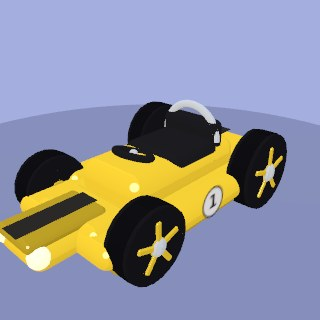
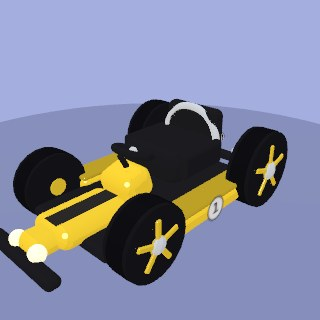
Restyle the kart bodies as real go-karts: low open chassis, bare seat, nose cone
The kart-family shell (GP / roadster / buggy / finned) was a slab-sided
toy car — wide moulded pan, raised spine, full-width nose. Rebuilt to
read like an actual go-kart, per reference:
- flat dark floor pan riding low, with exposed tube side-rails
- a bare bucket seat (tall back + side bolsters) instead of a body the
  seat sank into; seat/wheel positions unchanged so the cat still fits
  and the driving pose still reaches the rim
- a narrow tapering nose cone wearing the racing stripe, with a raked
  cowl and visible steering column up to the wheel
- wrap-around dark bumpers front and rear; small nose headlights;
  tail lights moved onto the rear bumper
- low accent-capped side pods carrying the number roundels
- an engine block + air intake behind the seat
Style variants keep their identity (nose length, big wing on a
floor-anchored pylon, ducktail on the bumper, lowered rocket fins, roll
hoop reaching the pan, tire sizes). The minivan keeps its chunky moulded
body; physics and footprint untouched. Catalog shots regenerated.

Claude-Session: https://claude.ai/code/session_017fyz1DfGtQ1NoLSq3UX5Bd

diff --git a/src/models.js b/src/models.js
@@ -1348,31 +1348,32 @@ export function createKartModel(bodyColor = 0xe53935, opts = {}) {
     }
     addRoundels(0.41, 1.08, 0.5, 0.5); // on the tank flanks
   } else {
-    // --- Kart / van moulded shell ---
-    // Floor pan: the wide, low monocoque the whole car is built on.
-    const pan = add(new THREE.Mesh(rbox(2.55, 0.42, 4.7, 0.3), paint));
-    pan.position.y = 0.56;
-    // Lower accent skirt (two-tone) — slightly wider + darker, hugging the ground.
-    const skirt = add(new THREE.Mesh(rbox(2.66, 0.3, 4.3, 0.22), accent));
-    skirt.position.y = 0.36;
-    // Cockpit spine: the raised centre body that the seat sinks into. (The van's
-    // cabin walls stand in for it — a spine inside the cabin reads as cargo.)
-    if (bodyKind !== "van") {
-      const spine = add(new THREE.Mesh(rbox(1.6, 0.78, 3.1, 0.34), paint));
-      spine.position.set(0, 0.92, -0.25);
-    }
-    // Nose: a single tapering wedge flowing off the front of the pan + soft tip.
-    // Length/reach vary by style (long GP snout vs stubby buggy vs van hood).
-    const nose = add(new THREE.Mesh(rbox(1.7, 0.46, st.nose, 0.3), paint));
-    nose.position.set(0, 0.62, st.noseZ);
-    const noseTip = add(new THREE.Mesh(rbox(1.16, 0.42, 1.2, 0.42), paint));
-    noseTip.position.set(0, 0.58, st.tipZ);
-    // Nose flash (accent) over the snout.
-    const flash = add(new THREE.Mesh(rbox(0.95, 0.2, 1.5, 0.12), accent));
-    flash.position.set(0, 0.84, st.noseZ + 0.6);
+    // Steering wheel + chrome hub — shared by van and karts (same spot the
+    // cat's driving pose reaches for).
+    const wheel = add(new THREE.Mesh(new THREE.TorusGeometry(0.35, 0.07, 10, 18), dark));
+    wheel.position.set(0, 1.4, 0.55);
+    wheel.rotation.x = Math.PI / 2.6;
+    const wheelHub = add(new THREE.Mesh(new THREE.CylinderGeometry(0.09, 0.09, 0.05, 12), chrome));
+    wheelHub.position.set(0, 1.4, 0.55);
+    wheelHub.rotation.x = Math.PI / 2.6;
+    // Seat where the cat sits — same height in every body so the cat always fits.
+    const seat = add(new THREE.Mesh(rbox(1.5, 0.66, 1.5, 0.28), dark));
+    seat.position.set(0, 1.06, -0.5);
+
     if (bodyKind === "van") {
-      // Open-top minivan: tall slab sides + a tailgate, with the roof cut away
-      // so the cat rides head-out. Roundels sit on the sliding doors.
+      // --- Open-top minivan: the chunky moulded body ---
+      const pan = add(new THREE.Mesh(rbox(2.55, 0.42, 4.7, 0.3), paint));
+      pan.position.y = 0.56;
+      const skirt = add(new THREE.Mesh(rbox(2.66, 0.3, 4.3, 0.22), accent));
+      skirt.position.y = 0.36;
+      // Hood + soft tip.
+      const nose = add(new THREE.Mesh(rbox(1.7, 0.46, st.nose, 0.3), paint));
+      nose.position.set(0, 0.62, st.noseZ);
+      const noseTip = add(new THREE.Mesh(rbox(1.16, 0.42, 1.2, 0.42), paint));
+      noseTip.position.set(0, 0.58, st.tipZ);
+      const flash = add(new THREE.Mesh(rbox(0.95, 0.2, 1.5, 0.12), accent));
+      flash.position.set(0, 0.84, st.noseZ + 0.6);
+      // Tall slab sides + a tailgate, roof cut away so the cat rides head-out.
       for (const sx of [-1, 1]) {
         const wall = add(new THREE.Mesh(rbox(0.26, 1.1, 3.4, 0.12), paint));
         wall.position.set(sx * 1.18, 1.25, -0.35);
@@ -1386,43 +1387,67 @@ export function createKartModel(bodyColor = 0xe53935, opts = {}) {
       shield.position.set(0, 1.42, 1.28);
       shield.rotation.x = -0.42;
       addRoundels(1.36, 1.3, -0.85);
+      const noseStripe = add(new THREE.Mesh(new THREE.PlaneGeometry(0.42, 1.5), stripe));
+      noseStripe.rotation.x = -Math.PI / 2;
+      noseStripe.position.set(0, 0.951, st.noseZ + 0.6);
+      const seatBack = add(new THREE.Mesh(rbox(1.4, 0.9, 0.4, 0.18), dark));
+      seatBack.position.set(0, 1.3, -1.2);
     } else {
-      // Side fairings — flush to the floor sides, same paint: bodywork, not pods.
+      // --- Go-kart: a LOW, OPEN chassis like the real thing — flat floor pan,
+      // exposed side rails, a bare bucket seat, a narrow nose cone with the
+      // stripe, low side pods, and an engine block behind the seat. The old
+      // slab-sided body read as a toy car, not a kart. ---
+      // Flat floor pan riding just off the tarmac (dark — chassis, not paint).
+      const pan = add(new THREE.Mesh(rbox(2.1, 0.22, 4.0, 0.11), dark));
+      pan.position.set(0, 0.4, 0.15);
+      // Exposed tube side-rails: the go-kart frame look.
       for (const sx of [-1, 1]) {
-        const fairing = add(new THREE.Mesh(rbox(0.62, 0.5, 2.7, 0.26), paint));
-        fairing.position.set(sx * 1.2, 0.64, 0.0);
+        const rail = add(new THREE.Mesh(new THREE.CylinderGeometry(0.08, 0.08, 3.4, 10), dark));
+        rail.rotation.x = Math.PI / 2;
+        rail.position.set(sx * 1.02, 0.34, 0.15);
       }
-      addRoundels(1.53, 0.8, 0.1);
+      // Narrow tapering nose cone in body paint (style sets its length).
+      const nose = add(new THREE.Mesh(rbox(0.95, 0.4, st.nose + 0.5, 0.2), paint));
+      nose.position.set(0, 0.56, st.noseZ);
+      const noseTip = add(new THREE.Mesh(rbox(0.62, 0.34, 0.9, 0.26), paint));
+      noseTip.position.set(0, 0.52, st.tipZ);
+      // Cowl rising from the nose to the wheel, with the column beneath it.
+      const cowl = add(new THREE.Mesh(rbox(0.85, 0.62, 0.7, 0.2), paint));
+      cowl.position.set(0, 0.84, 0.74);
+      cowl.rotation.x = 0.3;
+      const column = add(new THREE.Mesh(new THREE.CylinderGeometry(0.06, 0.06, 0.8, 8), dark));
+      column.position.set(0, 1.08, 0.68);
+      column.rotation.x = 0.5;
+      // Wrap-around bumpers, front and rear (dark, low, at rail height).
+      const bumperF = add(new THREE.Mesh(rbox(1.85, 0.2, 0.28, 0.13), dark));
+      bumperF.position.set(0, 0.4, st.tipZ + 0.5); // tucked against the nose tip
+      const bumperR = add(new THREE.Mesh(rbox(1.85, 0.2, 0.26, 0.12), dark));
+      bumperR.position.set(0, 0.42, -2.35);
+      // Low side pods between the wheels, accent-capped, wearing the roundels.
+      for (const sx of [-1, 1]) {
+        const pod = add(new THREE.Mesh(rbox(0.52, 0.34, 2.3, 0.12), paint));
+        pod.position.set(sx * 1.18, 0.46, -0.1);
+        const podCap = add(new THREE.Mesh(rbox(0.52, 0.1, 2.3, 0.05), accent));
+        podCap.position.set(sx * 1.18, 0.66, -0.1);
+      }
+      addRoundels(1.46, 0.5, -0.1, 0.5);
+      // Racing stripe down the nose cone.
+      const noseStripe = add(new THREE.Mesh(new THREE.PlaneGeometry(0.34, st.nose + 0.3), stripe));
+      noseStripe.rotation.x = -Math.PI / 2;
+      noseStripe.position.set(0, 0.765, st.noseZ);
+      // Bare bucket seat: tall back + side bolsters (nothing to sink into now).
+      const seatBack = add(new THREE.Mesh(rbox(1.35, 1.05, 0.34, 0.16), dark));
+      seatBack.position.set(0, 1.38, -1.26);
+      for (const sx of [-1, 1]) {
+        const bolster = add(new THREE.Mesh(rbox(0.2, 0.5, 1.2, 0.09), dark));
+        bolster.position.set(sx * 0.74, 1.12, -0.55);
+      }
+      // Engine block + air intake behind the seat, off to one side.
+      const engine = add(new THREE.Mesh(rbox(0.85, 0.55, 0.7, 0.12), dark));
+      engine.position.set(-0.45, 0.72, -1.85);
+      const intake = add(new THREE.Mesh(rbox(0.42, 0.32, 0.46, 0.1), accent));
+      intake.position.set(-0.45, 1.05, -1.85);
     }
-    // Painted racing stripe — flat decals lying flush on the nose flash panel and
-    // the rear deck (zero thickness, a hair proud), so it reads as paint on the
-    // bodywork rather than a raised block bolted on top.
-    const noseStripe = add(new THREE.Mesh(new THREE.PlaneGeometry(0.42, 1.5), stripe));
-    noseStripe.rotation.x = -Math.PI / 2;
-    noseStripe.position.set(0, 0.951, st.noseZ + 0.6); // flush on the nose flash
-    if (bodyKind !== "van") {
-      const deckStripe = add(new THREE.Mesh(new THREE.PlaneGeometry(0.42, 0.95), stripe));
-      deckStripe.rotation.x = -Math.PI / 2;
-      deckStripe.position.set(0, 1.122, -1.95); // flush on the rear deck
-    }
-
-    // Seat well (where the cat sits) — sunk into the spine / cabin.
-    const seat = add(new THREE.Mesh(rbox(1.5, 0.66, 1.5, 0.28), dark));
-    seat.position.set(0, 1.06, -0.5);
-    const seatBack = add(new THREE.Mesh(rbox(1.4, 0.9, 0.4, 0.18), dark));
-    seatBack.position.set(0, 1.3, -1.2);
-
-    // Steering wheel (black) with a small chrome hub.
-    const wheel = add(new THREE.Mesh(new THREE.TorusGeometry(0.35, 0.07, 10, 18), dark));
-    wheel.position.set(0, 1.4, 0.55);
-    wheel.rotation.x = Math.PI / 2.6;
-    const wheelHub = add(new THREE.Mesh(new THREE.CylinderGeometry(0.09, 0.09, 0.05, 12), chrome));
-    wheelHub.position.set(0, 1.4, 0.55);
-    wheelHub.rotation.x = Math.PI / 2.6;
-
-    // Rear deck behind the cockpit, housing the tail lights + a single wing pylon.
-    const deck = add(new THREE.Mesh(rbox(1.7, 0.5, 1.0, 0.26), paint));
-    deck.position.set(0, 0.86, -1.95);
   }
   // Both roundels share one material — merge them into one mesh (one draw).
   // Positions are style-dependent, so the merge cache keys on the style.
@@ -1430,8 +1455,9 @@ export function createKartModel(bodyColor = 0xe53935, opts = {}) {
 
   // Rear aero varies by style: a big winged GP, a low ducktail lip, or none.
   if (st.wing === "big") {
-    const pylon = add(new THREE.Mesh(rbox(0.34, 0.7, 0.34, 0.1), dark));
-    pylon.position.set(0, 1.25, -2.3);
+    // Pylon runs all the way down to the floor pan (no rear deck any more).
+    const pylon = add(new THREE.Mesh(rbox(0.34, 1.1, 0.34, 0.1), dark));
+    pylon.position.set(0, 1.06, -2.3);
     const wing = add(new THREE.Mesh(rbox(2.7, 0.14, 0.74, 0.06), paint));
     wing.position.set(0, 1.62, -2.32);
     for (const sx of [-1, 1]) {
@@ -1439,32 +1465,32 @@ export function createKartModel(bodyColor = 0xe53935, opts = {}) {
       plate.position.set(sx * 1.32, 1.55, -2.32);
     }
   } else if (st.wing === "lip") {
-    // Ducktail lip spoiler hugging the rear deck.
+    // Ducktail lip spoiler perched on the rear bumper.
     const lip = add(new THREE.Mesh(rbox(2.0, 0.12, 0.5, 0.06), paint));
-    lip.position.set(0, 1.18, -2.3);
+    lip.position.set(0, 0.72, -2.32);
     lip.rotation.x = -0.18;
   } else if (st.wing === "fin") {
     // Twin swept rocket tail-fins flanking the rear deck (body paint, accent edge),
     // plus a small central spine fin — a jet-age speedster look.
     for (const sx of [-1, 1]) {
       const fin = add(new THREE.Mesh(rbox(0.16, 0.98, 1.05, 0.06), paint));
-      fin.position.set(sx * 0.72, 1.34, -2.18);
+      fin.position.set(sx * 0.72, 1.06, -2.18);
       fin.rotation.x = -0.34; // rake the fin back
       fin.rotation.z = sx * 0.12; // splay outward a touch
       const edge = add(new THREE.Mesh(rbox(0.1, 0.16, 1.05, 0.04), accent));
-      edge.position.set(sx * 0.72, 1.82, -2.18);
+      edge.position.set(sx * 0.72, 1.54, -2.18);
       edge.rotation.x = -0.34;
       edge.rotation.z = sx * 0.12;
     }
     const spineFin = add(new THREE.Mesh(rbox(0.12, 0.62, 0.86, 0.05), accent));
-    spineFin.position.set(0, 1.2, -2.24);
+    spineFin.position.set(0, 0.92, -2.24);
     spineFin.rotation.x = -0.32;
   }
 
   // --- Greebles: chrome roll hoop (buggy) + twin exhaust tips (all) ---
   if (st.hoop) {
     const hoop = add(new THREE.Mesh(new THREE.TorusGeometry(0.66, 0.08, 10, 20, Math.PI), chrome));
-    hoop.position.set(0, 1.32, -1.15);
+    hoop.position.set(0, 1.22, -1.15); // legs reach the low chassis pan
     // little diagonal brace behind it
     const brace = add(new THREE.Mesh(rbox(0.12, 0.12, 0.9, 0.05), chrome));
     brace.position.set(0, 1.0, -1.55);
@@ -1499,10 +1525,17 @@ export function createKartModel(bodyColor = 0xe53935, opts = {}) {
     const light = new THREE.Mesh(new THREE.SphereGeometry(0.22, 12, 12), glass);
     light.position.set(0, 1.42, 1.42);
     hlParts.push(light);
-  } else {
+  } else if (bodyKind === "van") {
     for (const sx of [-1, 1]) {
       const light = new THREE.Mesh(new THREE.SphereGeometry(0.18, 12, 12), glass);
       light.position.set(sx * 0.46, 0.66, st.hlZ ?? 2.92);
+      hlParts.push(light);
+    }
+  } else {
+    // Kart lights ride the narrow nose cone, just behind its tip.
+    for (const sx of [-1, 1]) {
+      const light = new THREE.Mesh(new THREE.SphereGeometry(0.15, 12, 12), glass);
+      light.position.set(sx * 0.28, 0.54, st.tipZ + 0.38);
       hlParts.push(light);
     }
   }
@@ -1521,10 +1554,17 @@ export function createKartModel(bodyColor = 0xe53935, opts = {}) {
     const tl = new THREE.Mesh(rbox(0.34, 0.22, 0.14, 0.05), brakeMat);
     tl.position.set(0, 1.54, -2.3); // on the rear fender's tail
     tlParts.push(tl);
-  } else {
+  } else if (bodyKind === "van") {
     for (const sx of [-1, 1]) {
       const tl = new THREE.Mesh(rbox(0.4, 0.26, 0.16, 0.06), brakeMat);
       tl.position.set(sx * 0.62, 0.86, -2.46);
+      tlParts.push(tl);
+    }
+  } else {
+    // Kart tail lights sit on the rear bumper bar.
+    for (const sx of [-1, 1]) {
+      const tl = new THREE.Mesh(rbox(0.34, 0.22, 0.14, 0.05), brakeMat);
+      tl.position.set(sx * 0.62, 0.48, -2.5);
       tlParts.push(tl);
     }
   }
